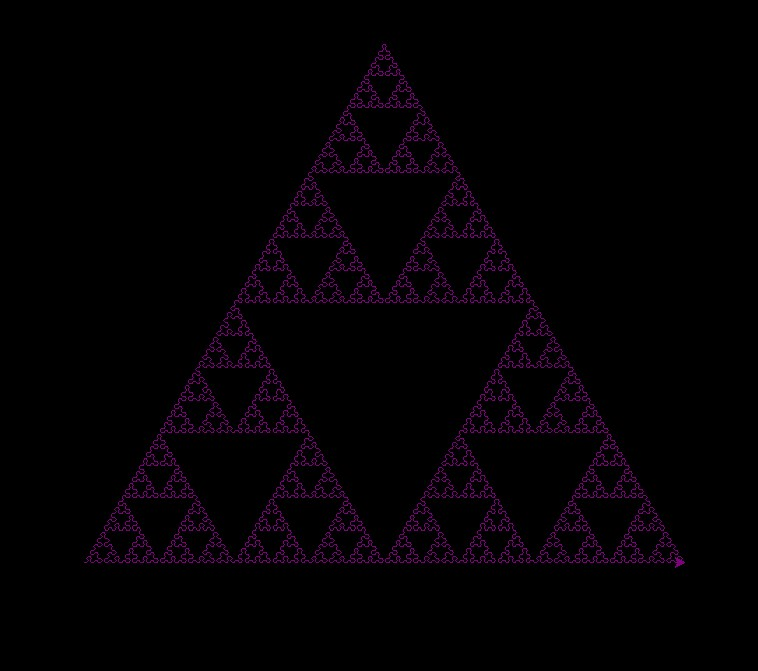
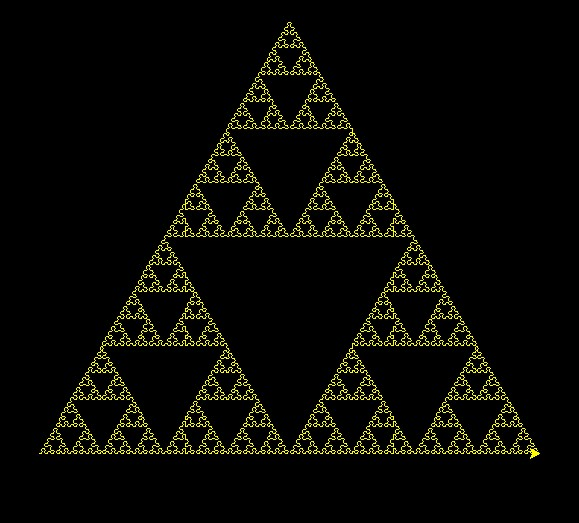
Update I to Sierpinski fractals post

Changed region(s): [[0.0622, 0.0612, 0.9326, 0.8872]]

diff --git a/_posts/2025-09-17-Of  Curves, Gaskets, And Carpets.md b/_posts/2025-09-17-Of  Curves, Gaskets, And Carpets.md
@@ -145,7 +145,7 @@ The Sierpinski curve very closely resembles the Sierpinski gasket, and can be pr
 
 The curve below was produced by a very straightforward translation of some C++ code into Python. Rendering the curve takes between 15 to 40 seconds, but it's fun to watch the turtle cursor trace out its path.
 
-![SierpinskiGasket](/assets/posts/20250917/SierpinskiArrowHeadCurve.jpg){: width="758" height="671"}
+![SierpinskiGasket](/assets/posts/20250917/SierpinskiArrowHeadCurve.jpg){: width="579" height="523"}
 _Sierpinski arrowhead curve for order=8_
 
 ```python
@@ -191,7 +191,7 @@ startx = -250
 starty = 160
 order = 8
 length = 500
-curvecolor = "purple"
+curvecolor = "yello"
 
 sierpinski_arrowhead_curve(startx,-starty, order, length, curvecolor)
 
